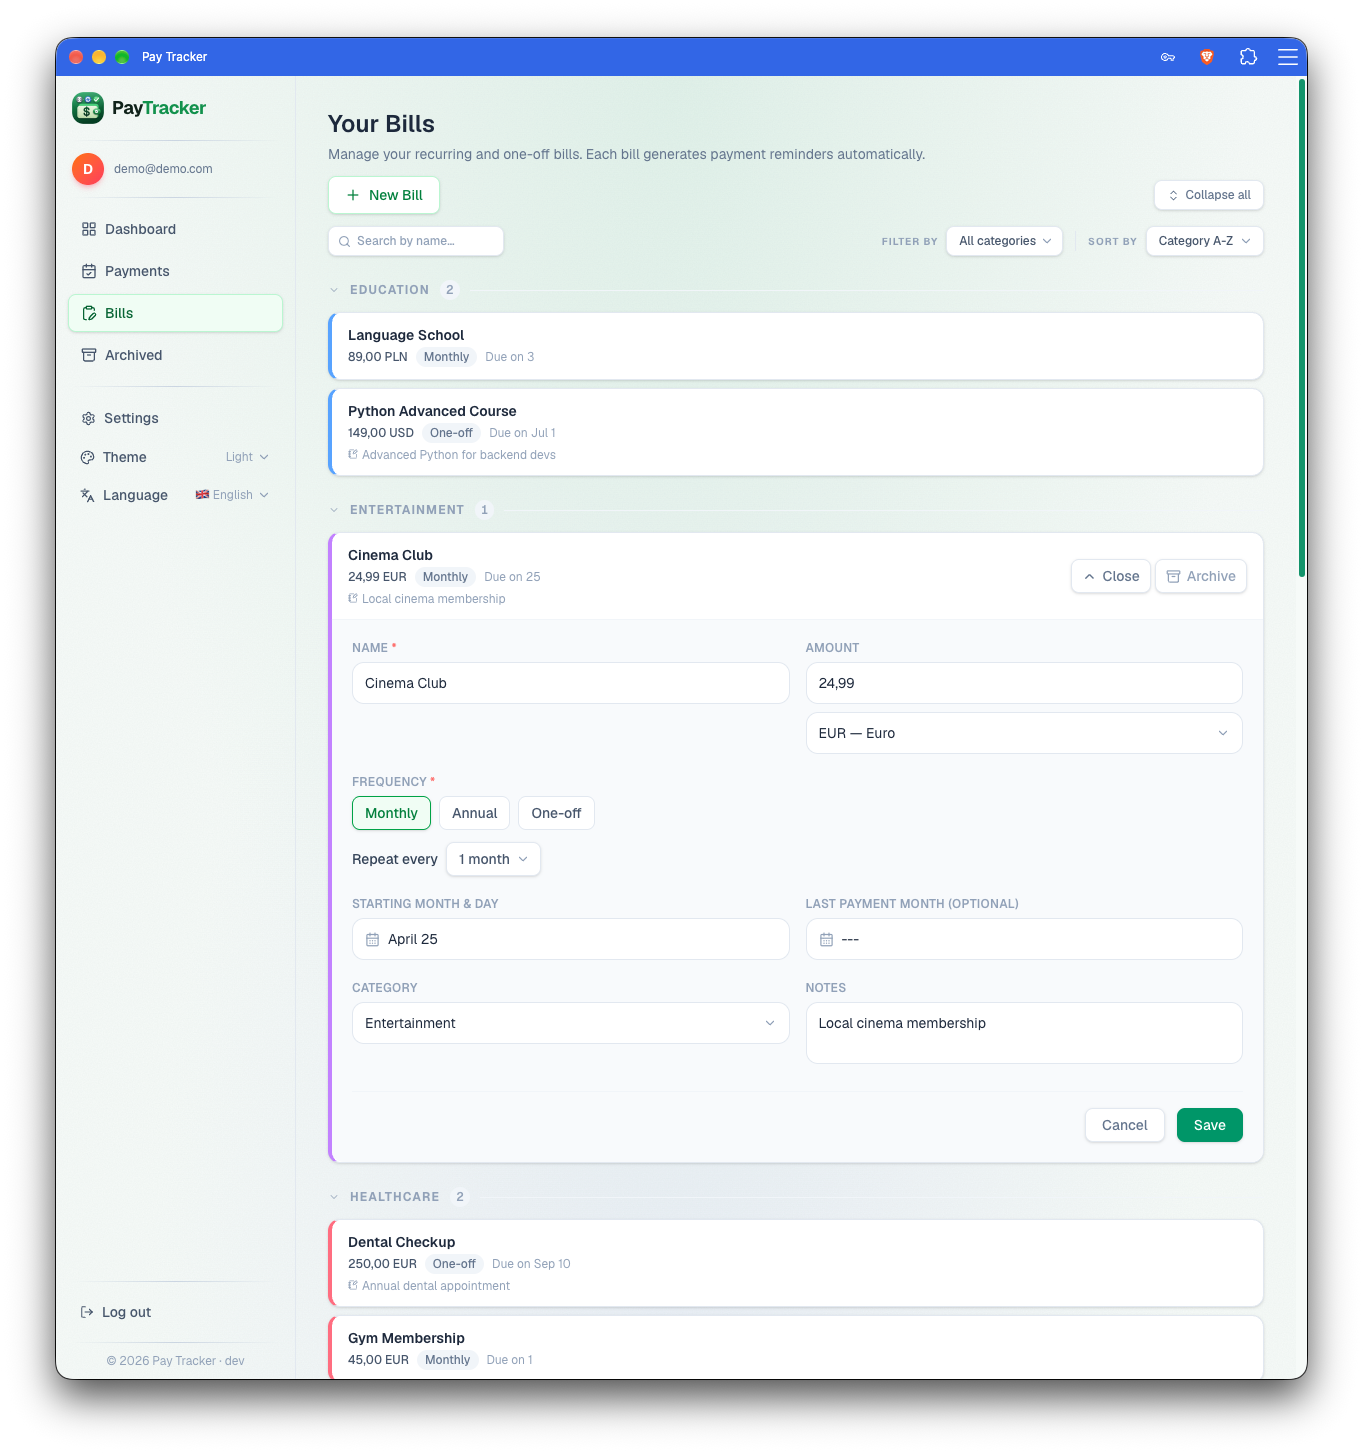
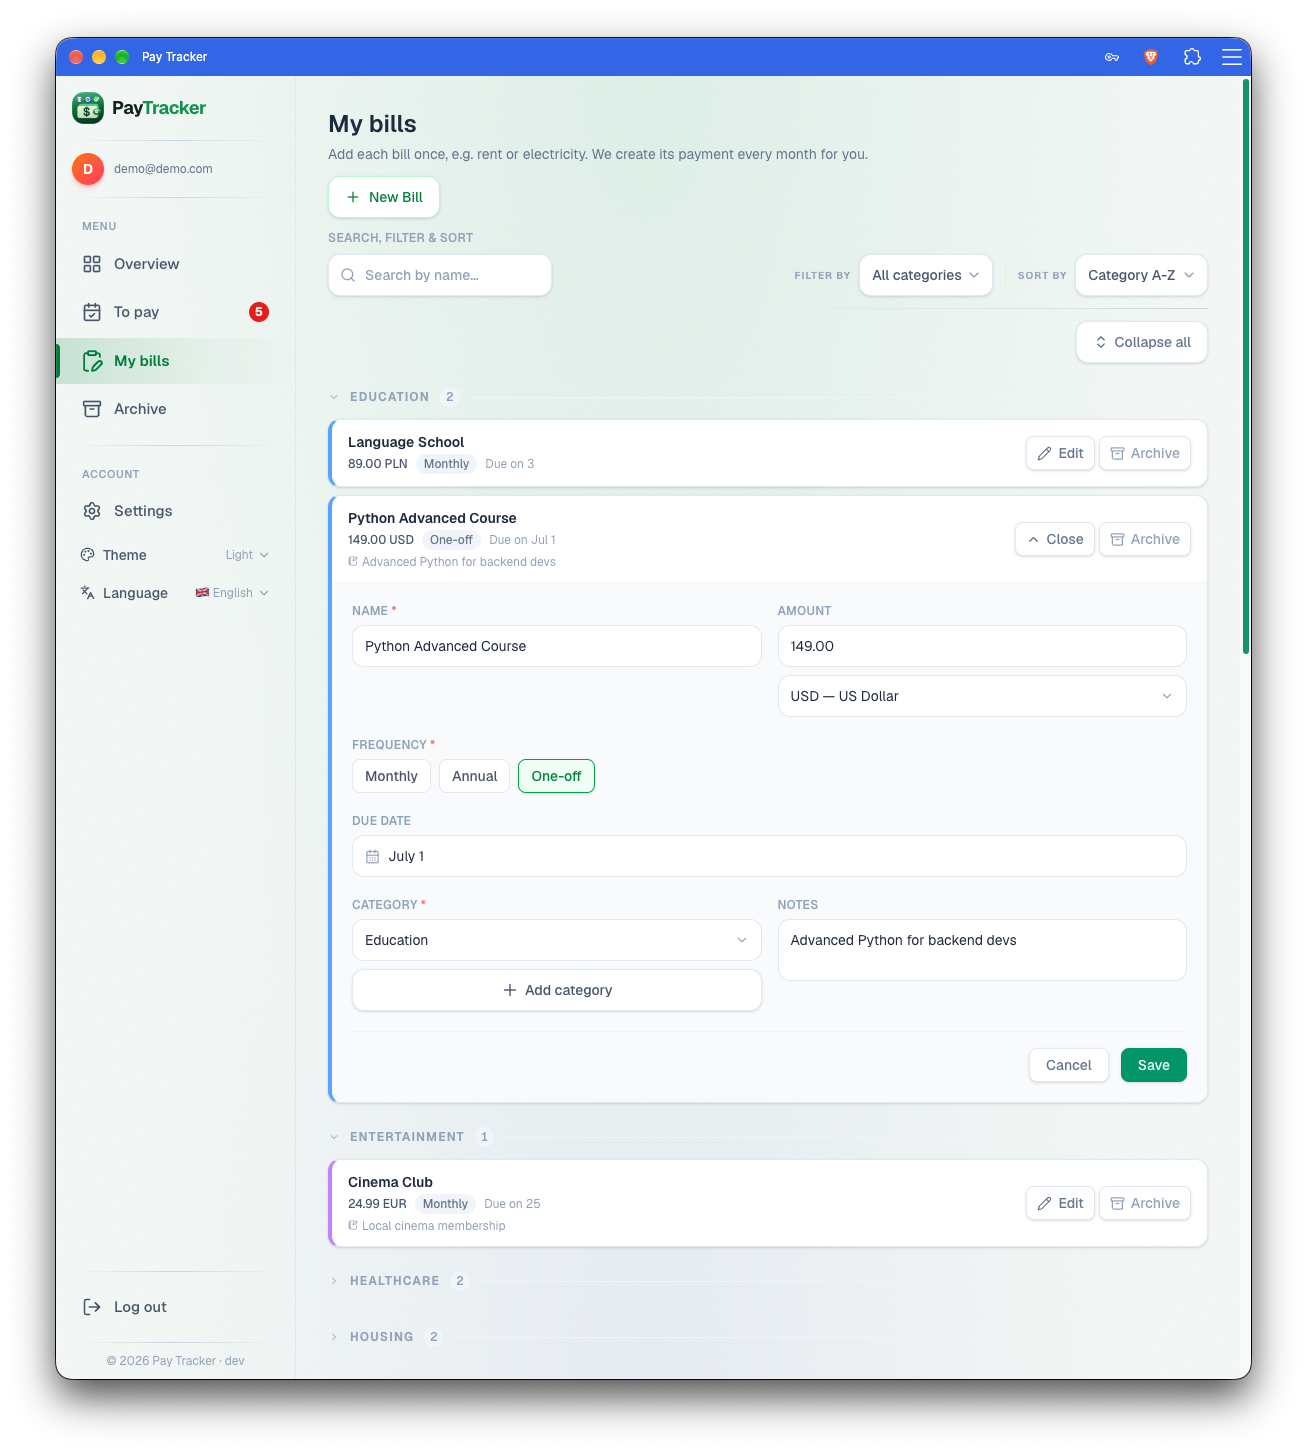
fix(payments): status follows the due date in the app and exports

diff --git a/backend/tests/test_export_xlsx.py b/backend/tests/test_export_xlsx.py
@@ -2,11 +2,12 @@
 full-year backfill, and language translation."""
 
 import io
-from datetime import date
+from datetime import date, timedelta
 
 import openpyxl
 
 from app.core.i18n import LOCALES
+from app.models.bill import PaymentInstance
 from tests.conftest import (
     auth,
     category_id,
@@ -326,3 +327,44 @@ def test_xlsx_has_print_footer(client):
     assert ws.page_setup.orientation == "landscape"
     assert ws.sheet_properties.pageSetUpPr.fitToPage
     assert (ws.page_setup.fitToWidth, ws.page_setup.fitToHeight) == (1, 0)
+
+
+def test_xlsx_status_follows_due_date_not_stored_value(client_db):
+    """Same rule as the API: a stored "overdue" with a future due date reads
+    Upcoming, and a stored "upcoming" that is past due reads Overdue."""
+    client, db = client_db
+    tok = register_and_login(client, "xlsx_status@test.com")
+    cat_id = category_id(client, tok)
+    today = today_utc()
+    for name in ("Stored overdue", "Stored upcoming"):
+        r = client.post(
+            "/bills",
+            json={
+                **_BILL_A,
+                "name": name,
+                "category_id": cat_id,
+                "due_month": today.month,
+            },
+            headers=auth(tok),
+        )
+        assert r.status_code == 201
+    sync_payments(client, tok, month=today.strftime("%Y-%m"))
+    by_name = {i.template.name: i for i in db.query(PaymentInstance).all()}
+    by_name["Stored overdue"].status = "overdue"
+    by_name["Stored overdue"].due_date = today + timedelta(days=5)
+    by_name["Stored upcoming"].status = "upcoming"
+    by_name["Stored upcoming"].due_date = today - timedelta(days=5)
+    db.commit()
+
+    r = client.get(f"/export/xlsx?year={today.year}", headers=auth(tok))
+    wb = openpyxl.load_workbook(io.BytesIO(r.content))
+    period = today.strftime("%Y-%m")
+    # columns: Bill, Category, Period, Due Date, Amount, Currency, Status
+    status = {
+        row[0]: row[6]
+        for ws in wb.worksheets
+        for row in ws.iter_rows(min_row=2, values_only=True)
+        if row[2] == period
+    }
+    assert status["Stored overdue"] == "Upcoming"
+    assert status["Stored upcoming"] == "Overdue"

diff --git a/backend/app/services/export_xlsx.py b/backend/app/services/export_xlsx.py
@@ -8,7 +8,7 @@ from openpyxl.worksheet.properties import PageSetupProperties
 from sqlalchemy.orm import Session, selectinload
 
 from app.core.i18n import t
-from app.core.tz import user_tz
+from app.core.tz import today_for, user_tz
 from app.models.bill import BillFrequency, BillTemplate, PaymentInstance
 from app.models.user import User
 from app.schemas.auth import EXPORT_FIELD_KEYS
@@ -99,6 +99,7 @@ def _rows_by_month(
 ) -> dict[int, list[dict]]:
     _ensure_year_instances(db, me.id, year)
     tz = user_tz(me)
+    today = today_for(me)
 
     instances = (
         db.query(PaymentInstance)
@@ -124,7 +125,7 @@ def _rows_by_month(
                 "Due Date": i.due_date.isoformat(),
                 "Amount": f"{i.current_amount:.2f}".replace(".", me.decimal_separator),
                 "Currency": i.template.currency,
-                "Status": t(lang, f"PaymentRow.status.{i.status}"),
+                "Status": t(lang, f"PaymentRow.status.{i.status_on(today).value}"),
                 "Paid Amount": (
                     f"{i.paid_amount:.2f}".replace(".", me.decimal_separator)
                     if i.paid_amount
@@ -134,7 +135,7 @@ def _rows_by_month(
                     i.paid_at.astimezone(tz).date().isoformat() if i.paid_at else None
                 ),
                 "Notes": i.notes,
-                "_status_key": i.status,
+                "_status_key": i.status_on(today).value,
                 "_category_color": i.template.category.color,
             }
         )

diff --git a/backend/tests/test_mark_paid.py b/backend/tests/test_mark_paid.py
@@ -272,6 +272,29 @@ def test_edit_due_date_on_overdue_instance(client_db):
     assert r.json()["due_date"] == new_due
 
 
+def test_moving_due_date_to_the_future_clears_stored_overdue(client_db):
+    """A stored "overdue" status (set by revert / old data) must not outlive a due
+    date that is no longer past — the status follows the date."""
+    client, db = client_db
+    token = register_and_login(client, "dd4@test.com")
+    bill_id = _create_bill(client, token)
+    instance_id = _instance_id(client, token, bill_id)
+    next_month = (today_utc().replace(day=1) + timedelta(days=32)).replace(day=1)
+    inst = db.get(PaymentInstance, instance_id)
+    inst.period = next_month.strftime("%Y-%m")
+    inst.due_date = today_utc() - timedelta(days=3)
+    inst.status = "overdue"
+    db.commit()
+
+    r = client.patch(
+        f"/bills/payments/{instance_id}",
+        json={"due_date": f"{inst.period}-20"},
+        headers=auth(token),
+    )
+    assert r.status_code == 200
+    assert r.json()["status"] == "upcoming"
+
+
 def test_edit_due_date_rejected_when_paid(client_db):
     client, db = client_db
     token = register_and_login(client, "dd3@test.com")

diff --git a/backend/app/routers/bills.py b/backend/app/routers/bills.py
@@ -70,13 +70,8 @@ def _paid_at_datetime(day: date, user: User) -> datetime:
 
 
 def _to_out(inst: PaymentInstance, today: date) -> PaymentInstanceOut:
-    # Dynamic overdue (relative to the caller's today): reported in every response
-    # without writing to the DB.
-    status = (
-        PaymentStatus.overdue
-        if inst.status == PaymentStatus.upcoming and inst.due_date < today
-        else inst.status
-    )
+    # Relative to the caller's today; reported in every response without writing to the DB.
+    status = inst.status_on(today)
     # Unpaid instances follow the per-payment override, else the template's
     # current price (not the generation-time snapshot), so editing a bill's
     # amount is reflected immediately. Paid instances keep their historical amount.

diff --git a/backend/app/models/bill.py b/backend/app/models/bill.py
@@ -137,6 +137,15 @@ class PaymentInstance(Base):
 
     template: Mapped["BillTemplate"] = relationship(back_populates="instances")
 
+    def status_on(self, today: date) -> PaymentStatus:
+        """Status as shown to the user: an unpaid payment follows its due date,
+        never the stored value (a stored "overdue" must clear when the date moves)."""
+        if self.status == PaymentStatus.paid:
+            return PaymentStatus.paid
+        return (
+            PaymentStatus.overdue if self.due_date < today else PaymentStatus.upcoming
+        )
+
     @property
     def current_amount(self) -> Decimal:
         """Amount expected for this payment: paid keeps its snapshot, unpaid

diff --git a/CHANGELOG.md b/CHANGELOG.md
@@ -16,6 +16,7 @@ Notable changes to Pay Tracker, release by release.
 ### Fixes
 
 - Default categories can now be renamed in Settings
+- A payment moved to a future due date is no longer shown as overdue
 - Edit and archive buttons on bills are always visible
 - Switching tabs no longer flashes: pages crossfade and show the last data instantly
 
